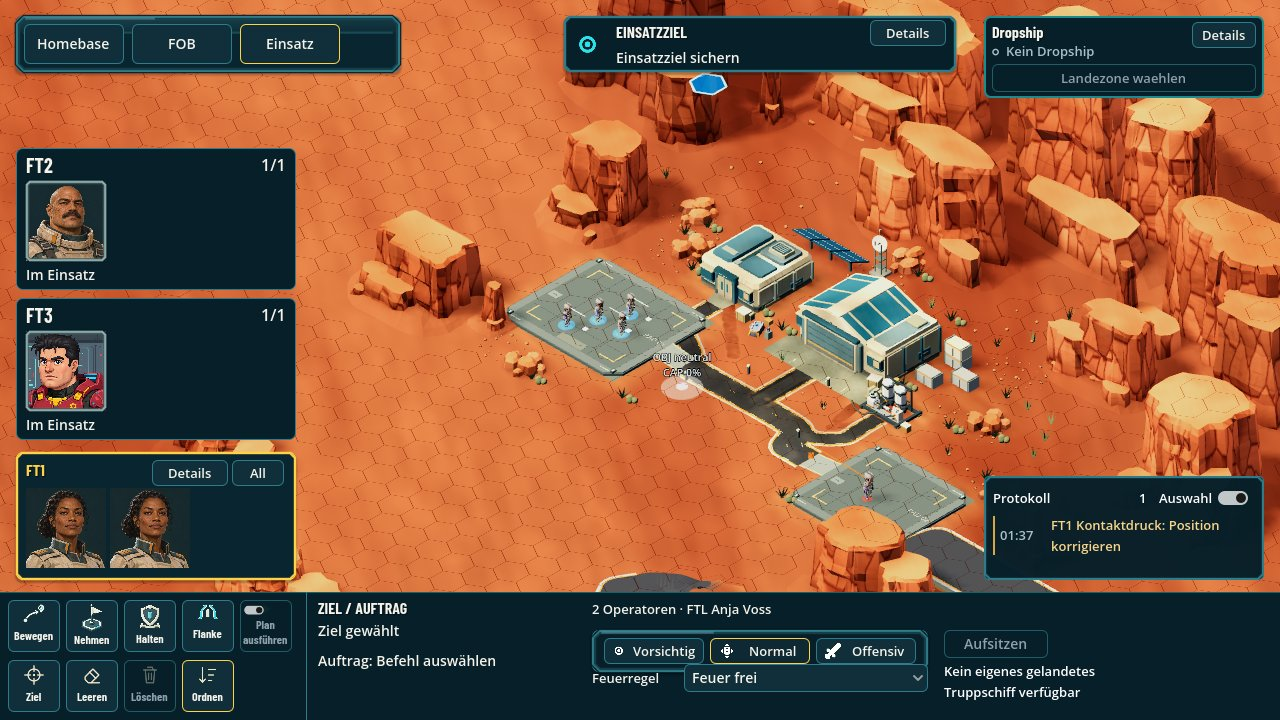
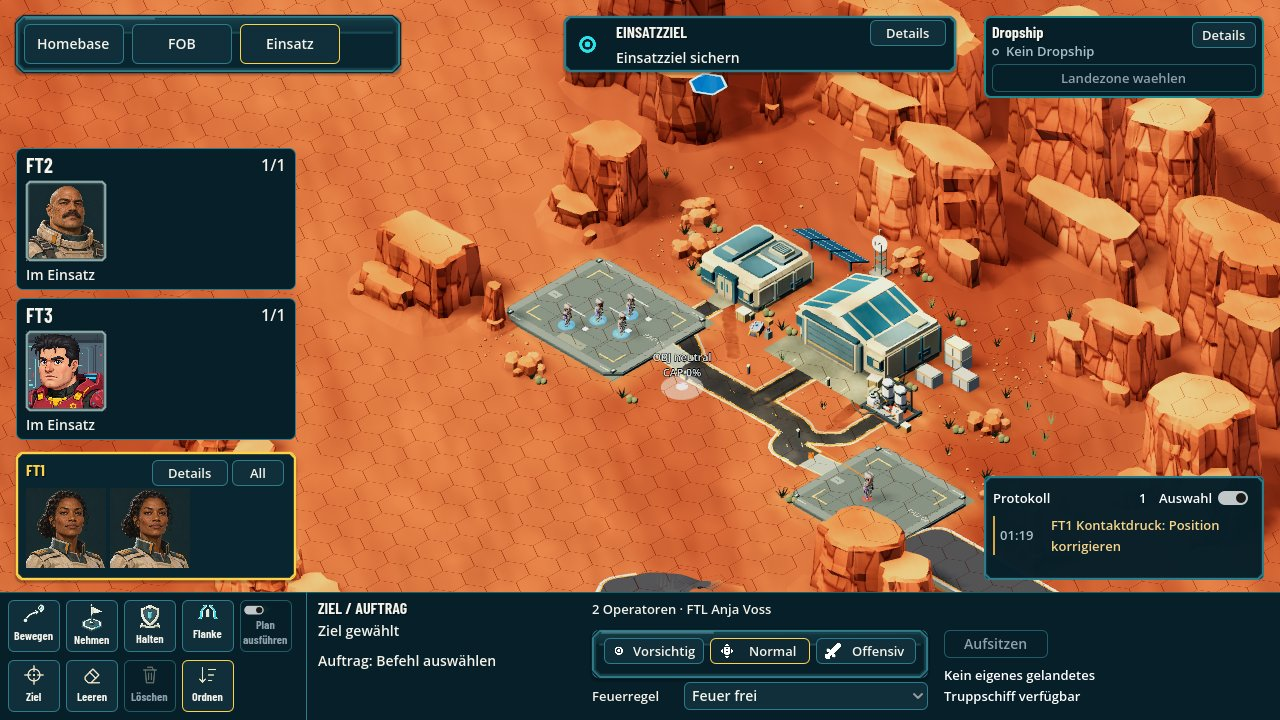
Missionsansicht A5: Zeilenabstand im Band-Modul

Changed region(s): [[0.4375, 0.9167, 0.875, 0.9778]]

diff --git a/docs/tasks/MISSION_HUD_A5_ANGLEICHUNG_2026_11_15.md b/docs/tasks/MISSION_HUD_A5_ANGLEICHUNG_2026_11_15.md
@@ -92,11 +92,11 @@ Neuer Schluessel im Rueckgabe-Dictionary:
 | `AllFireteamsButton` | unveraendert `T.pos + (T.w - 64, 8)`, 52 x 24 | |
 | `A5TeamPortraits` | `T.pos + (10, 36)`, Groesse `(T.w - 20, ph)` | y 34 |
 | `A5TeamSummary` | `P.pos + (8, i)`, Groesse `(336, 24)` | in der Karte |
-| `TacticalStancePanel` | `P.pos + (8, i + 30)`, Groesse `(336, 28)` | in der Karte |
-| `A5FireRuleHeading` | `P.pos + (8, i + 64)`, Groesse `(88, 28)` | in der Karte |
-| `A5FireRuleSelector` | `P.pos + (100, i + 64)`, Groesse `(244, 28)` | in der Karte |
+| `TacticalStancePanel` | `P.pos + (8, i + 30)`, Groesse `(336, 48)` | in der Karte |
+| `A5FireRuleHeading` | `P.pos + (8, i + 82)`, Groesse `(88, 28)` | in der Karte |
+| `A5FireRuleSelector` | `P.pos + (100, i + 82)`, Groesse `(244, 28)` | in der Karte |
 | `A5TeamBoard` | `P.pos + (360, i + 30)`, Groesse `(104, 28)` | in der Karte |
-| `A5BoardStatus` | `P.pos + (360, i + 62)`, Groesse `(160, 36)` | in der Karte |
+| `A5BoardStatus` | `P.pos + (360, i + 66)`, Groesse `(160, 36)` | in der Karte |
 
 - Die versteckten Original-Feuerregel-Knoepfe (`RULES`), `info_scroll`, Kontextknoepfe und `_context_tool_rect` bleiben unveraendert.
 - `team.set_meta("native_a5_parameter_group_left", true)` bleibt. Zusaetzlich `team.set_meta("native_a5_parameter_group_band", true)`.
